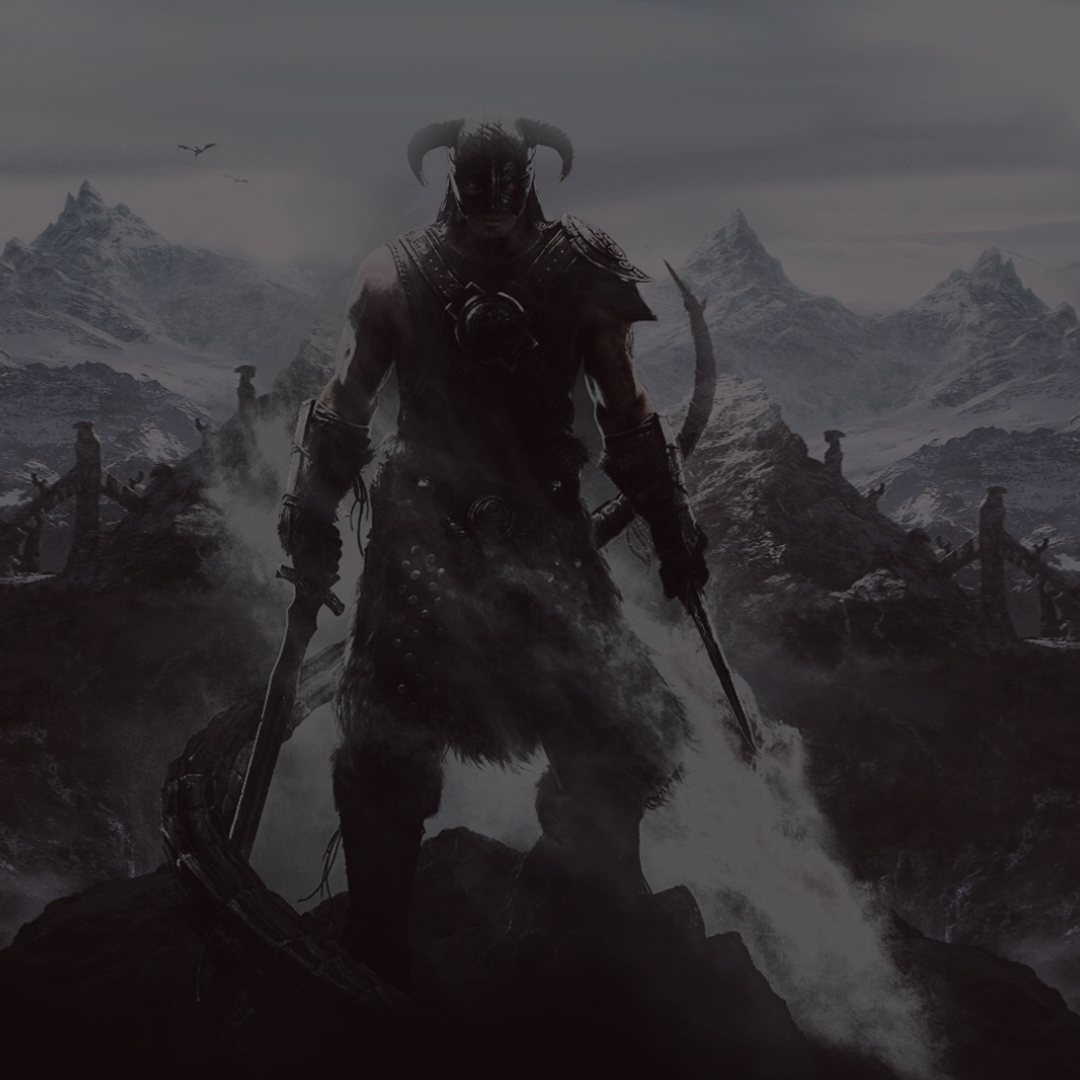
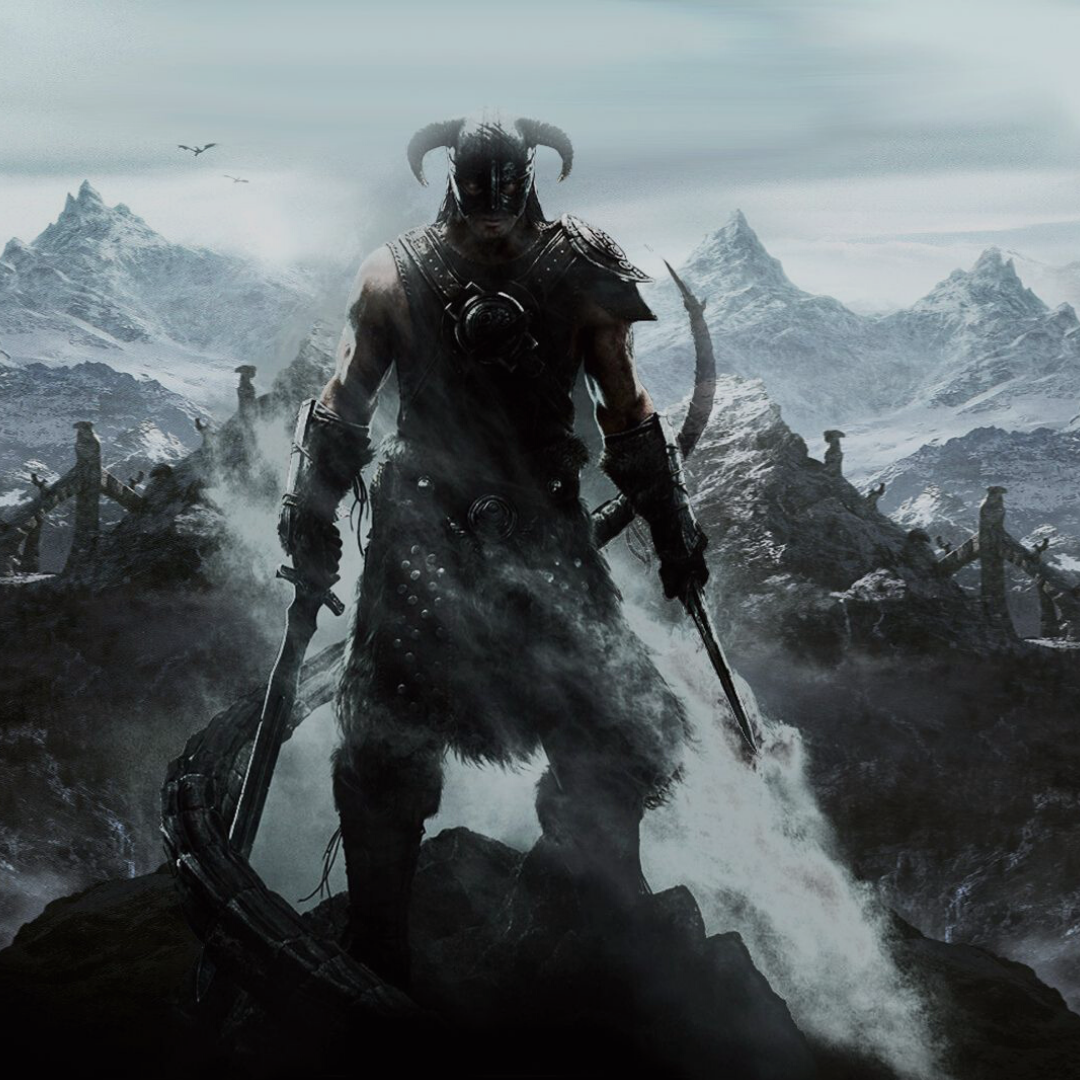
updated pictures and media queries; added navbar

diff --git a/index.html b/index.html
@@ -21,6 +21,22 @@
 
 <body>
 
+    <!-- Navbar -->
+    <nav class="navbar navbar-expand-lg navbar-custom-css">
+        <button class="navbar-toggler" type="button" data-toggle="collapse" data-target="#navbarNavAltMarkup" aria-controls="navbarNavAltMarkup" aria-expanded="false" aria-label="Toggle navigation">
+      <span class="navbar-toggler-icon"></span>
+    </button>
+        <div class="collapse navbar-collapse" id="navbarNavAltMarkup">
+            <div class="navbar-nav">
+                <a class="nav-item nav-link" href="#about">About</a>
+                <a class="nav-item nav-link" href="#my-work">My Work</a>
+                <a class="nav-item nav-link" href="#contact-me">Contact</a>
+            </div>
+        </div>
+    </nav>
+
+    <!-- Welcome -->
+
     <div class="top-container">
         <img class="cloud-img" src="assets/images/cloud.png" alt="cloud">
         <img class="shaydaname-img" src="assets/images/imshayda.png" alt="I'm Shayda">
@@ -29,6 +45,9 @@
         <img class="mountains-img" src="assets/images/mountains.png" alt="mountains">
     </div>
 
+    <!-- Intro -->
+
+    <div id="about"></div>
     <div class="middle-container">
         <div class="profile">
             <img class="shaydaface-img" src="assets/images/shayda-headshot.png" alt="picture of shayda">
@@ -38,52 +57,56 @@
                 <a href="https://www.linkedin.com/in/shaydabakhshi/">LinkedIn</a>, and
                 <a href="https://github.com/shaybak">GitHub</a>. If you're really brave, you can also visit my <a href="https://www.amazon.com/-/e/B01EGS653W">Amazon author page</a>.</p>
         </div>
+    </div>
 
-        <hr>
+    <hr id="my-work">
 
-        <div class="portfolio">
-            <h2>My Work.</h2>
-            <div class="container">
+    <!-- Portfolio -->
 
-                <div class="row row1">
+    <div class="portfolio">
+        <h2>My Work.</h2>
+        <div class="container">
 
-                    <div class="col-lg-4 col-md-6 col-sm-12">
-                        <a href="https://shaybak.github.io/word-guess-game/"><img class="img-fluid portfolio-img" src="assets/images/hangman.png" alt="link to word guess game"></a>
-                        <h3>Word Guess</h3>
-                        <p class="github-links"><a href="https://github.com/shaybak/word-guess-game">GitHub</a></p>
-                    </div>
-                    <div class="col-lg-4 col-md-6 col-sm-12">
-                        <a href="https://shaybak.github.io/crystal-collector-game/"><img class="img-fluid portfolio-img" src="assets/images/crystal-collector.png" alt=""></a>
-                        <h3>Crystals Collector</h3>
-                        <p class="github-links"><a href="https://github.com/shaybak/crystal-collector-game">GitHub</a></p>
-                    </div>
-                    <div class="col-lg-4 col-md-6 col-sm-12">
-                        <a href="https://shaybak.github.io/trivia-game/"><img class="img-fluid portfolio-img" src="assets/images/trivia.png" alt=""></a>
-                        <h3>Trivia</h3>
-                        <p class="github-links"><a href="https://github.com/shaybak/trivia-game">GitHub</a></p>
-                    </div>
-                    <div class="col-lg-4 col-md-6 col-sm-12">
-                        <a href="https://rbreyna.github.io/Project_1/"><img class="img-fluid portfolio-img" src="assets/images/daytripdata.png" alt="link to daytrip dot data project"></a>
-                        <h3>DayTrip.data</h3>
-                        <p class="github-links"><a href="https://github.com/rbreyna/Project_1">GitHub</a></p>
-                    </div>
-                    <div class="col-lg-4 col-md-6 col-sm-12">
-                        <a href="https://shaybak.github.io/giphy-api-homework/"><img class="img-fluid portfolio-img" src="assets/images/giphy.png" alt="link to daytrip dot data project"></a>
-                        <h3>Gif Generator</h3>
-                        <p class="github-links"><a href="https://github.com/shaybak/giphy-api-homework">GitHub</a></p>
-                    </div>
-                    <div class="col-lg-4 col-md-6 col-sm-12">
-                        <a href="https://rbreyna.github.io/Project_1/"><img class="img-fluid portfolio-img" src="assets/images/daytripdata.png" alt="link to daytrip dot data project"></a>
-                        <h3>DayTrip.data</h3>
-                        <p class="github-links"><a href="https://github.com/rbreyna/Project_1">GitHub</a></p>
-                    </div>
+            <div class="row row1">
 
-
+                <div class="col-lg-4 col-md-6 col-sm-12">
+                    <a href="https://shaybak.github.io/word-guess-game/"><img class="img-fluid portfolio-img" src="assets/images/hangman.png" alt="link to word guess game"></a>
+                    <h3>Word Guess</h3>
+                    <p class="github-links"><a href="https://github.com/shaybak/word-guess-game">GitHub</a></p>
                 </div>
+                <div class="col-lg-4 col-md-6 col-sm-12">
+                    <a href="https://shaybak.github.io/crystal-collector-game/"><img class="img-fluid portfolio-img" src="assets/images/crystal-collector.png" alt=""></a>
+                    <h3>Crystals Collector</h3>
+                    <p class="github-links"><a href="https://github.com/shaybak/crystal-collector-game">GitHub</a></p>
+                </div>
+                <div class="col-lg-4 col-md-6 col-sm-12">
+                    <a href="https://shaybak.github.io/trivia-game/"><img class="img-fluid portfolio-img" src="assets/images/trivia.png" alt=""></a>
+                    <h3>Trivia</h3>
+                    <p class="github-links"><a href="https://github.com/shaybak/trivia-game">GitHub</a></p>
+                </div>
+                <div class="col-lg-4 col-md-6 col-sm-12">
+                    <a href="https://rbreyna.github.io/Project_1/"><img class="img-fluid portfolio-img" src="assets/images/daytripdata.png" alt="link to daytrip dot data project"></a>
+                    <h3>DayTrip.data</h3>
+                    <p class="github-links"><a href="https://github.com/rbreyna/Project_1">GitHub</a></p>
+                </div>
+                <div class="col-lg-4 col-md-6 col-sm-12">
+                    <a href="https://shaybak.github.io/giphy-api-homework/"><img class="img-fluid portfolio-img" src="assets/images/giphy.png" alt="link to daytrip dot data project"></a>
+                    <h3>Gif Generator</h3>
+                    <p class="github-links"><a href="https://github.com/shaybak/giphy-api-homework">GitHub</a></p>
+                </div>
+                <div class="col-lg-4 col-md-6 col-sm-12">
+                    <a href="https://rbreyna.github.io/Project_1/"><img class="img-fluid portfolio-img" src="assets/images/placeholder.png" alt="link to daytrip dot data project"></a>
+                    <h3>Placeholder</h3>
+                    <p class="github-links"><a href="https://github.com/rbreyna/Project_1">GitHub</a></p>
+                </div>
+
+
             </div>
         </div>
 
-        <hr>
+        <hr id="contact-me">
+
+        <!-- Contact -->
 
         <div class="contact-me">
             <h2>Get In Touch</h2>
@@ -93,6 +116,8 @@
 
     </div>
 
+
+    <!-- Footer -->
 
     <div class="bottom-container">
         <span>

diff --git a/assets/css/styles.css b/assets/css/styles.css
@@ -77,6 +77,16 @@ TEXT
 
 
 /****************************************************
+NAVBAR
+*******************/
+
+.navbar-custom-css {
+    background-color: #a8e6cf;
+    text-align: right;
+}
+
+
+/****************************************************
 DIVIDERS
 *******************/
 
@@ -225,7 +235,7 @@ BUTTONS
 MEDIA QUERIES
 *******************/
 
-@media only screen and (max-width: 770px) {
+@media only screen and (max-width: 900px) {
     h2 {
         font-size: 2rem;
     }
